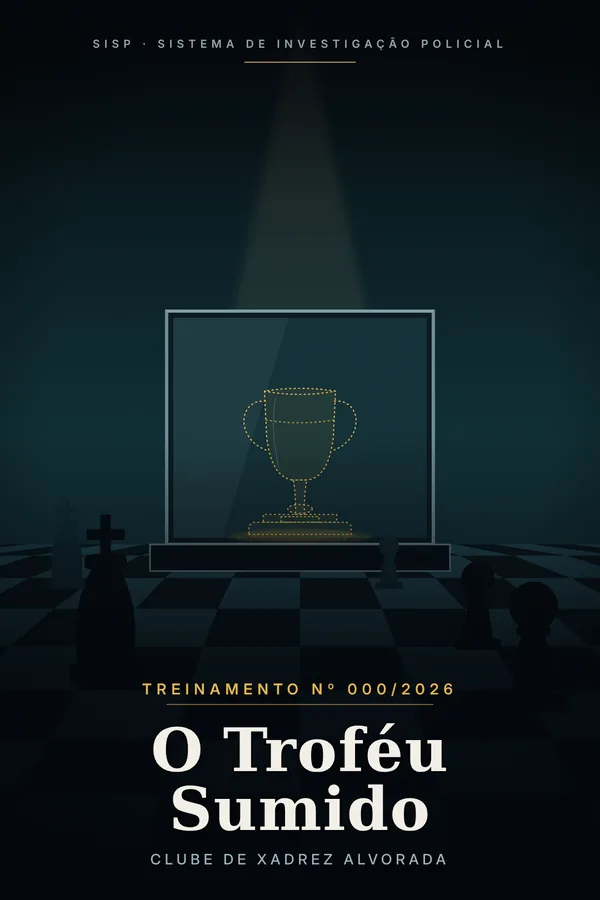
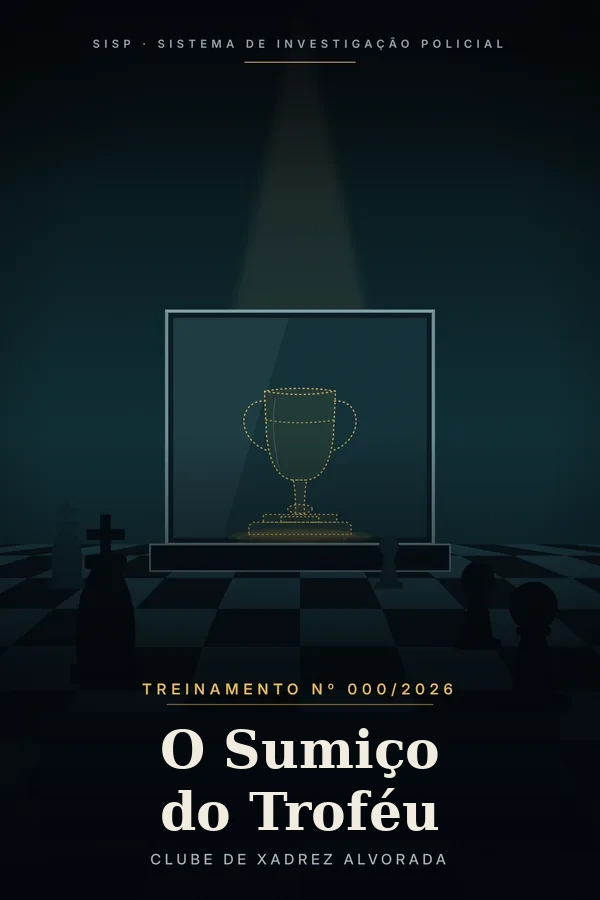
Capas: 'O Sumiço do Troféu' e 'O Sumiço do Rolo', inquérito da Galeria passa a 342/2026 e some o 'Centro' das capas da Joalheria e da Galeria
Claude-Session: https://claude.ai/code/session_015tfXN2LHrSJNSLNMARGbDc

Changed region(s): [[0.24, 0.8089, 0.75, 0.9333]]

diff --git a/casos/caso6.js b/casos/caso6.js
@@ -11,7 +11,7 @@ const DD={"laudo_pigmento|laudo_uv": "O pigmento só existe depois de 1921 e as 
 const DH={"laudo_pigmento|laudo_uv": "O pigmento do vestido e as trincas sob luz ultravioleta.", "etiqueta_peso|seguro_foto": "O peso do seguro e o furinho de alfinete.", "etiqueta_peso|guia_transporte": "O peso na saída e na chegada do transporte.", "seguro_foto|q_i2": "O furinho que Iracema descreve e a foto do seguro.", "cam_sala|q_a3": "O que Álvaro fazia diante do quadro na gravação.", "cam_sala|q_p1": "A falha da câmera e a explicação da segurança.", "registro_atelie|q_h2": "O livro do ateliê e o que Heitor jura.", "cam_atelie|registro_atelie": "O horário da câmera do ateliê e a anotação do livro.", "pincel_lixo|laudo_pigmento": "O pincel do lixo e o pigmento do laudo.", "celular|cam_atelie": "As mensagens do celular e a gravação do ateliê.", "celular|q_t5": "O celular e a confissão de Tiago.", "q_c2|q_p2": "A saída de Camila e o que a segurança viu."};
 const EV={"r_perita": ["alvaro", "[ao telefone] Delegado, a doutora Sandra me contou da foto sob luz ultravioleta: as trincas estão desenhadas, não rachadas. Alguém tem muito talento para copiar mestres. Não fui eu, juro!"], "r_iracema": ["iracema", "[voz trêmula] Delegado, lembrei! Eu deixei o quadro guardado no ateliê do Heitor até a mostra. Ele jurou que cuidava dele como de um filho e que ninguém mais chegava perto."]};
 const TS={};SUALL.forEach(s=>s.q.forEach(q=>TS[q[0]]={s:s.n.split(' ')[0],t:q[4]}));TS.r_perita={s:'Álvaro',t:'A perita viu as trincas desenhadas sob a luz ultravioleta'};TS.r_iracema={s:'Iracema',t:'Deixou o quadro guardado no ateliê de Heitor até a mostra'};
-return {SU,SUALL,WV,LO,CL,RES,TL,DD,DH,EV,TS,NT:12,TOTAL_Q:SUALL.reduce((n,s)=>n+s.q.length,0),TOTAL_C:10,LOCT:{atelie:'q_i1',deposito:'q_c3'},LN:{atelie:'Ateliê de restauração',deposito:'Depósito de transporte'},id:'c6',key:'sisp-c6a',sn:2,two:1,tlo:1,n:'A Falsificação na Galeria',num:'Inquérito nº 104/2026',place:'Galeria Duarte, Centro',blurb:"Na manhã seguinte à abertura da mostra, a perita descobre que o quadro de R$ 4 milhões é falso. A pergunta não é só quem, é quando a troca foi feita.",dif:4,t0:600,dead:1500,thr:9,top:12,start:'galeria',
+return {SU,SUALL,WV,LO,CL,RES,TL,DD,DH,EV,TS,NT:12,TOTAL_Q:SUALL.reduce((n,s)=>n+s.q.length,0),TOTAL_C:10,LOCT:{atelie:'q_i1',deposito:'q_c3'},LN:{atelie:'Ateliê de restauração',deposito:'Depósito de transporte'},id:'c6',key:'sisp-c6a',sn:2,two:1,tlo:1,n:'A Falsificação na Galeria',num:'Inquérito nº 342/2026',place:'Galeria Duarte, Centro',blurb:"Na manhã seguinte à abertura da mostra, a perita descobre que o quadro de R$ 4 milhões é falso. A pergunta não é só quem, é quando a troca foi feita.",dif:4,t0:600,dead:1500,thr:9,top:12,start:'galeria',
 lock:{id:'__none',pin:'0000',title:'',hint:''},
 plan:{top:'Galeria Duarte e arredores',R:[['Rua das Artes',250,54,100,166]],I:[['galeria','Galeria',10,54],['atelie','Ateliê',125,54],['deposito','Depósito',10,140]]},
 TH:[["c:etiqueta_peso", "4,2 kg contra os 5,1 kg do seguro. Em que momento o quadro ficou mais leve?"], ["c:laudo_pigmento", "Branco de titânio num quadro de 1912. O que isso diz sobre a obra exposta?"], ["c:laudo_uv", "As trincas estão desenhadas. Alguém \"envelheceu\" a obra de propósito."], ["q:q_i1", "O quadro ficou guardado no ateliê até a mostra. Quem frequenta o ateliê?"], ["c:registro_atelie", "Heitor assinou uma revisão 20 dias antes da mostra. Confira o que ele jurou antes."], ["c:cam_atelie", "Dois vultos trocando o quadro. Um deles carrega um tubo de desenho: quem tem um tubo assim?"], ["c:pincel_lixo", "Iniciais T.L. e tinta úmida. Compare com o que Tiago disse sobre o ateliê."]],

diff --git a/js/02-casos-lista.js b/js/02-casos-lista.js
@@ -1,4 +1,4 @@
-window.IMV=id=>({e1:'',e2:'?v=2',e3:'?v=3',e4:'?v=3',c6:'?v=3'}[id]||'');
+window.IMV=id=>({e1:'',e2:'?v=2',e3:'?v=3',e4:'?v=3',c6:'?v=4',c0:'?v=2',t1:'?v=2',c5:'?v=2'}[id]||'');
 /* primeiro nome sem deixar título sozinho (Seu, Dona, Irmã, Frei, Comandante...) */
 function nm1(n){const p=String(n).split(' ');if(/^(Dra?\.?|Sra?\.?)$/.test(p[0])&&p[1])return p[1];if(/^(Seu|Sua|Dona|Ir[mM][ãa]o?|Frei|Madre|Padre|Dom|Comandante|Cmte\.?|Capit[ãa]o|Doutor|Doutora|Madame|Mestre|Palha[cç]o)$/.test(p[0])&&p[1])return p[0]+' '+p[1];return p[0]}
 const CASES=[mkC0(),Object.assign(mkC1(),{id:'c1',key:'sisp104b',n:'A Última Xícara',num:'Inquérito nº 104/2026',place:'Mansão Sterling',blurb:'Um bioquímico morre num escritório trancado por dentro, numa noite de tempestade. Três suspeitos e um chá frio.',dif:2,t0:1392,dead:1800,thr:4,top:9,start:'office',LOCT:{copa:'q_c1',lab:'q_e1',vault:'q_e2'},LN:{copa:'Copa e portaria',lab:'Laboratório',vault:'Cofre oculto'},
